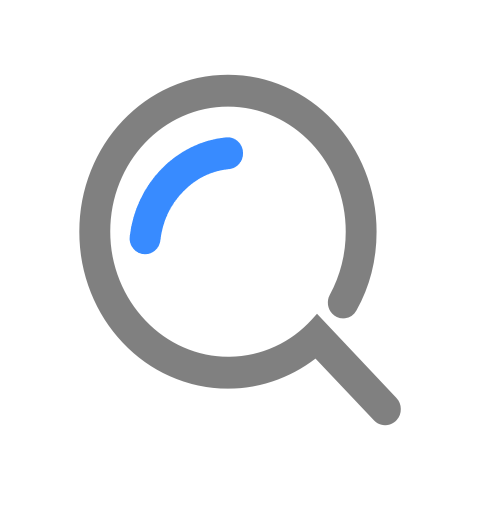
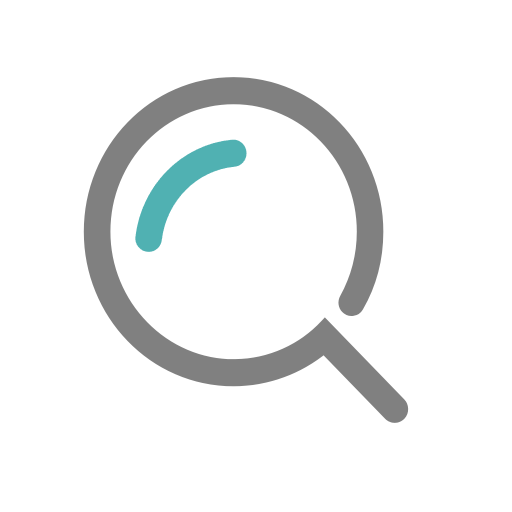
change color

diff --git a/custom-tab-bar/index.js b/custom-tab-bar/index.js
@@ -3,7 +3,7 @@ Component({
     chans:false,
     selected:0,
     color: "#808080",
-    selectedColor: "#388BFF",
+    selectedColor: "rgba(80, 177, 178, 1)",
     list: [{
       "pagePath": "/pages/home/home",
       "iconPath": "/img/1.png",
